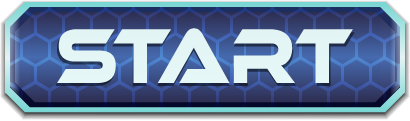
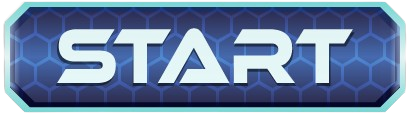
add buttons to canvas

diff --git a/style.css b/style.css
@@ -13,6 +13,10 @@ body {
     width: 720px;
     height: 480px;
     background-color: black;
+    z-index: 0;
+    background-image: url('./img/Background_City/city 1/11.png');
+    background-size: cover;
+    background-position: bottom;
 }
 
 .player {
@@ -20,4 +24,62 @@ body {
     width: 64px;
     height: 64px;
     background-color: red;
+}
+
+.container {
+    z-index: 100;
+    position: relative;
+}
+
+.container .buttons {
+    position: absolute;
+    top: 200px;
+    left: 50%;
+    transform: translateX(-50%);
+    padding: 0.5rem;
+    width: 650px;
+    display: flex;
+    justify-content: center;
+    align-items: center;
+    flex-direction: column;
+    gap: 8px;
+}
+
+.container .buttons .start-btn {
+    background-image: url('./img/GUI/PNG/Main_Menu/Start_BTN.png');
+    background-size: cover;
+    background-position: center;
+    padding: 0.5rem;
+    border-radius: 24px;
+    width: 250px;
+    aspect-ratio: 3.5/1;
+    background-color: transparent;
+    border: none;
+}
+
+.container .buttons .settings-btn {
+    background-image: url('./img/GUI/PNG/Main_Menu/Settings_BTN.png');
+    background-size: cover;
+    background-position: center;
+    border-radius: 24px;
+    width: 100px;
+    aspect-ratio: 1/1;
+    background-color: transparent;
+    border: none;
+}
+
+.container .buttons .exit-btn {
+    background-image: url('./img/GUI/PNG/Main_Menu/Exit_BTN.png');
+    background-size: cover;
+    background-position: center;
+    padding: 0.5rem;
+    border-radius: 24px;
+    width: 250px;
+    aspect-ratio: 3.5/1;
+    background-color: transparent;
+    border: none;
+}
+
+.d_none {
+    display: none;
 }

diff --git a/classes/player/player.class.js b/classes/player/player.class.js
@@ -93,8 +93,9 @@ class Player extends MovableObject {
                 world.statusbars[0].setPercentage(this.energy);
             }
         }, 1000 / 10);
-        if (this.isDead()) return;
         setInterval(() => {
+            if (this.isDead()) return;
+
             this.sprint();
             if (this.world.controller.RIGHT && level1.levelEndX > this.posX) {
                 this.moveRight();
@@ -106,12 +107,15 @@ class Player extends MovableObject {
         }, 1000 / 60);
 
         setInterval(() => {
+            if (this.isDead()) return;
+
             if (this.world.controller.RIGHT && this.isGrounded || this.world.controller.LEFT && this.isGrounded) {
                 this.playAnimation(this.IMAGES_WALKING);
             }
         }, 1000 / 11);
 
         setInterval(() => {
+            if (this.isDead()) return;
 
             if (this.isAboveGround()) {
                 this.playAnimation(this.IMAGES_JUMP);
@@ -124,6 +128,8 @@ class Player extends MovableObject {
         }, 300);
 
         setInterval(() => {
+            if (this.isDead()) return;
+
             if (!this.world.controller.RIGHT && !this.world.controller.LEFT && this.isGrounded || this.world.controller.RIGHT && this.world.controller.LEFT) {
                 this.playAnimation(this.IMAGES_IDLE);
             }

diff --git a/js/game.js b/js/game.js
@@ -5,22 +5,22 @@ let controller = new Controller();
 function init() {
     canvas = document.getElementById('canvas');
 
-    // TODO - scaling objects
     canvas.width = 720 * 2;
     canvas.height = 480 * 2;
     canvas.style.width = "720px";
     canvas.style.height = "480px";
-
-    world = new World(canvas, controller);
-    posX = world.character.posX
-    posY = world.character.posY
-
-
     // character.src = '../img/Player_Anim/Idle/idle_00.png';
     // setTimeout(() => {
 
     //     ctx.drawImage(character, -75, -50, 225, 200);
     // }, 2000);
+}
+
+function startGame() {
+    document.getElementById('container').classList.add('d_none');
+    world = new World(canvas, controller);
+    posX = world.character.posX
+    posY = world.character.posY
 }
 
 //Controller for Player

diff --git a/index.html b/index.html
@@ -33,7 +33,15 @@
 
 <body onload="init()">
     <h1>Jump Quest</h1>
-    <canvas id="canvas" class="canvas-frame"></canvas>
+    <div class="container" id="container">
+        <div class="buttons">
+            <button onclick="startGame()" class="start-btn"></button>
+            <button onclick="openSettings()" class="settings-btn"></button>
+            <button onclick="exitGame()" class="exit-btn"></button>
+        </div>
+    </div>
+    <canvas id="canvas" class="canvas-frame">
+    </canvas>
 </body>
 
 </html>

diff --git a/classes/moveable_object.class.js b/classes/moveable_object.class.js
@@ -65,15 +65,6 @@ class MovableObject extends DrawableObject {
         let i = this.currentImg % anim.length;
         let path = anim[i];
         this.img = this.imgCache[path];
-        if (anim.length - 1 > i) {
-            this.currentImg++;
-        }
-    }
-
-    playDeathAnimation(anim) {
-        let i = this.currentImg % anim.length;
-        let path = anim[i];
-        this.img = this.imgCache[path];
         if (anim.length - 1 > i)
             this.currentImg++;
     }

diff --git a/classes/game/world.class.js b/classes/game/world.class.js
@@ -26,7 +26,7 @@ class World {
         this.controller = controller;
 
         //scale up or down
-        this.ctx.scale(6.2, 6.2);
+        this.ctx.scale(6.2, 6.4);
         createBackground();
 
         this.draw();
